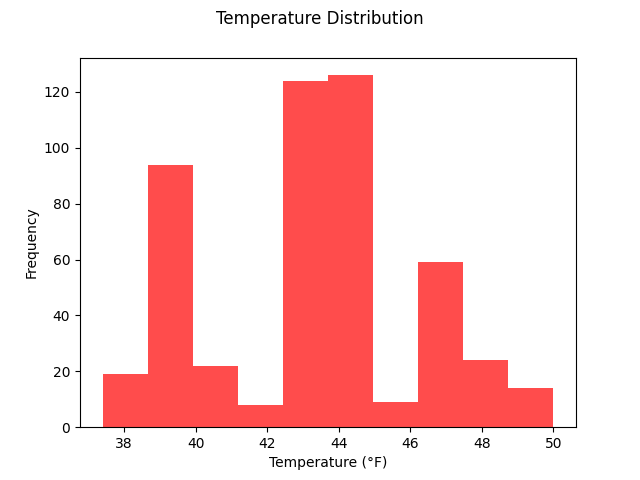
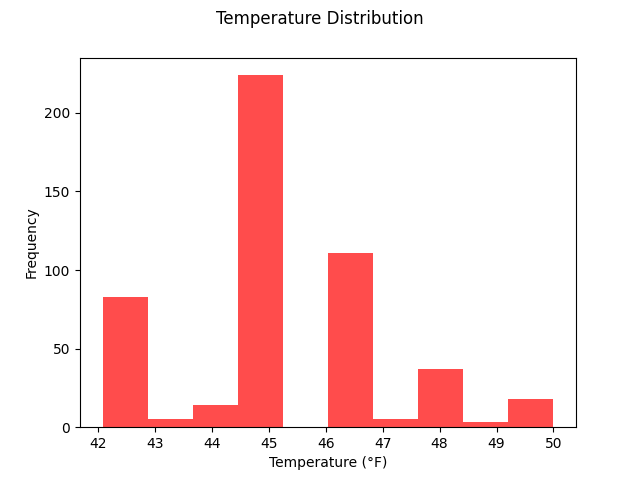
added tabs to gui, created instance variable in back end for zip code so it can be set via gui. changed some pack commnds to grid commands as it made more sense in those spots. Created instance variable for cloudy days so GUI could access the value.

diff --git a/noaa_weather_gui.py b/noaa_weather_gui.py
@@ -1,5 +1,41 @@
-# weather_gui.py
+"""
+NOAA Weather Data Analyzer GUI
+==============================
+
+Author:    Rowland Holden
+Date:      Feb 23, 2026
+Course:    CEIS 101 - Final Project (Enhanced)
+Purpose:   Provides a gui for fetching and analyzing NOAA weather data for a specified ZIP code, with 
+            visualizations and statistics.
+
+Features:
+- display statistics (avg, min, max) for temperature and humidity
+- show number of cloudy days in the last ~10 days
+- generate and display plots: Standard line plot of temperature & humidity, 
+    box plot comparison, and temperature histogram
+
+Output Files:
+- weather.png          : Temperature & Humidity over time
+- boxplot.png          : Box plot comparison
+- temperature_histogram.png : Temperature distribution
+
+Requirements:
+- Python 3.x
+- customtkinter
+- Pillow (PIL)
+- noaa_weather_backend.py (must be in the same directory)
+- threading (standard library)
+- os (standard library)
+
+Note: The noaa_weather_backend returns all available records from the Noaa stations for the various zip codes
+     in the requested time window noaa stations have data for. 
+     The backend is currently hard-coded to fetch data for ZIP code 98204, 
+     but the GUI is designed to allow dynamic input of ZIP codes in the future. 
+     The number of cloudy days is currently a placeholder and will be implemented 
+     in the next step after we have the cleaned data available in the GUI.
+"""
 import customtkinter as ctk
+import tkinter.messagebox as messagebox
 from PIL import Image, ImageTk
 import threading
 import os
@@ -10,7 +46,7 @@ ctk.set_appearance_mode("System")          # "Light", "Dark", "System"
 ctk.set_default_color_theme("blue")
 
 class WeatherAppGUI(ctk.CTk):
-    def __init__(self):
+    def __init__(self) -> None:
         super().__init__()
         self.title("NOAA Weather Analyzer – Rowland Holden")
         self.geometry("1000x850")
@@ -21,34 +57,46 @@ class WeatherAppGUI(ctk.CTk):
         self.create_widgets()
         self.protocol("WM_DELETE_WINDOW", self.on_closing)
 
-    def create_widgets(self):
+    def create_widgets(self) -> None:
         # ── Header ───────────────────────────────────────────────────────
         header = ctk.CTkLabel(self, text="Weather Data Analyzer", font=("Arial", 24, "bold"))
         header.pack(pady=(20, 10))
 
+        # ── Tabs creation ────────────────────────────────────────────────
+        self.tabs = ctk.CTkTabview(self)
+        self.tabs.pack(pady=10, padx=30, fill="both", expand=True)
+
+        self.overview_tab = self.tabs.add("Overview")
+        self.standard_plot_tab = self.tabs.add("Standard Plot")
+        self.box_plot_tab = self.tabs.add("Box Plot")
+        self.temp_histogram_tab = self.tabs.add("Temp Histogram")
+        self.raw_data_tab = self.tabs.add("Raw Data")
         # ── Input area ───────────────────────────────────────────────────
-        input_frame = ctk.CTkFrame(self)
+        input_frame = ctk.CTkFrame(self.overview_tab)
         input_frame.pack(pady=10, padx=30, fill="x")
 
-        ctk.CTkLabel(input_frame, text="ZIP Code:", font=("Arial", 14)).pack(side="left", padx=(0, 10))
-        
+        input_frame.grid_columnconfigure(3, weight=1)
+
+        zip_label = ctk.CTkLabel(input_frame, text="ZIP Code:", font=("Arial", 14))#.pack(side="left", padx=(0, 10))
+        zip_label.grid(row=0, column=0, padx=(0, 10))
+
         self.zip_entry = ctk.CTkEntry(input_frame, width=140, placeholder_text="e.g. 98204")
-        self.zip_entry.insert(0, "98204")
-        self.zip_entry.pack(side="left", padx=10)
+        # May not need this self.zip_entry.insert(0, "98204")
+        self.zip_entry.grid(row=0, column=1, padx=10)
 
         fetch_btn = ctk.CTkButton(input_frame, text="Fetch & Analyze", width=160,
                                  command=self.start_fetch_thread)
-        fetch_btn.pack(side="left", padx=20)
+        fetch_btn.grid(row=0, column=2, padx=20)
 
         # ── Status ───────────────────────────────────────────────────────
         self.status = ctk.CTkLabel(self, text="Ready", font=("Arial", 13), text_color="gray")
         self.status.pack(pady=(10, 5))
 
         # ── Results scrollable area ──────────────────────────────────────
-        self.results_container = ctk.CTkScrollableFrame(self, fg_color="transparent")
+        self.results_container = ctk.CTkScrollableFrame(self.overview_tab, fg_color="transparent")
         self.results_container.pack(pady=10, padx=30, fill="both", expand=True)
 
-    def start_fetch_thread(self):
+    def start_fetch_thread(self) -> None:
         self.status.configure(text="Fetching data from NOAA... Please wait", text_color="orange")
         self.update_idletasks()  # force redraw
 
@@ -59,12 +107,12 @@ class WeatherAppGUI(ctk.CTk):
         thread = threading.Thread(target=self.run_analysis, daemon=True)
         thread.start()
 
-    def run_analysis(self):
+    def run_analysis(self) -> None:
         try:
-            # For now we ignore the ZIP entry (backend is still hard-coded to 98204)
-            # We'll make it dynamic in the next step
+            # For now we will just set the zip code in the backend to whatever is in the entry box, but we will need to add some 
+            # validation here in the future.
+            self.backend.zip_code = self.zip_entry.get().strip()
             temp_list, humidity_list, timestamps = self.backend.init_weather_data()
-            temp_list, humidity_list = self.backend.clean_data(temp_list, humidity_list)
             self.backend.create_plots(temp_list, humidity_list, timestamps)
             # We skip console stats printing for GUI version – we'll show them in UI
 
@@ -73,16 +121,40 @@ class WeatherAppGUI(ctk.CTk):
         except Exception as e:
             self.after(0, self.show_error, str(e))
 
-    def show_results(self, temp_list, humidity_list):
+    def print_raw_data(self) -> None:
+        raw_data_text = ctk.CTkLabel(self.raw_data_tab, text="Raw NOAA Data:", font=("Arial", 14, "bold"))
+        raw_data_text.pack(pady=(20, 10))
+
+        raw_data_frame = ctk.CTkScrollableFrame(self.raw_data_tab)
+        raw_data_frame.pack(pady=10, padx=30, fill="both", expand=True)
+
+        raw_weather_data = self.backend.get_noaa_data()
+
+        # print(weather["timestamp"], "\t",
+        #   weather["temperature"]["value"], " °F\t",
+        #   weather["relativeHumidity"]["value"], "\t",
+        #   weather["textDescription"], "\t",)
+
+        for record in raw_weather_data:
+            record_label = ctk.CTkLabel(raw_data_frame, text=(str(record["timestamp"]) + "\t",
+                str(record["temperature"]["value"]) + " °F\t",
+                str(record["relativeHumidity"]["value"]) + "%\t",
+                str(record["textDescription"]) + "\t",), 
+                font=("Courier", 15), justify="left")
+            
+            record_label.pack(anchor="w", pady=2)
+
+    def show_results(self, temp_list, humidity_list) -> None:
         # ── Cloudy days & basic info ─────────────────────────────────────
         cloudy_label = ctk.CTkLabel(self.results_container,
-                                    text=f"Cloudy days in last ~10 days: {len(set())}",  # placeholder – we'll fix
+                                    text=f"Cloudy days in last ~10 days: {self.backend.cloudy_days}",  
                                     font=("Arial", 16, "bold"))
         cloudy_label.pack(pady=(20, 10))
 
         # ── Stats ─────────────────────────────────────────────────────────
         stats_frame = ctk.CTkFrame(self.results_container)
-        stats_frame.pack(fill="x", pady=15)
+        stats_frame.pack(pady=15, fill="x")
+        stats_frame.grid_columnconfigure((0,1), weight=1)
 
         temp_stats = ctk.CTkLabel(stats_frame,
                                   text="Temperature Statistics\n" +
@@ -90,7 +162,7 @@ class WeatherAppGUI(ctk.CTk):
                                        f"Min: {round(min(temp_list),1)}°F\n" +
                                        f"Max: {round(max(temp_list),1)}°F",
                                   justify="left", anchor="w")
-        temp_stats.pack(side="left", padx=40, pady=10)
+        temp_stats.grid(row=0, column=0, padx=40, pady=10, sticky="w")
 
         humid_stats = ctk.CTkLabel(stats_frame,
                                    text="Humidity Statistics\n" +
@@ -98,28 +170,39 @@ class WeatherAppGUI(ctk.CTk):
                                         f"Min: {round(min(humidity_list),1)}%\n" +
                                         f"Max: {round(max(humidity_list),1)}%",
                                    justify="left", anchor="w")
-        humid_stats.pack(side="left", padx=40, pady=10)
+        humid_stats.grid(row=0, column=1, padx=40, pady=10, sticky="w")
 
         # ── Plots ─────────────────────────────────────────────────────────
-        for fname in ["weather.png", "boxplot.png", "temperature_histogram.png"]:
-            if os.path.exists(fname):
+        for plot_name in ["weather.png", "boxplot.png", "temperature_histogram.png"]:
+            if os.path.exists(plot_name):
                 try:
-                    img = Image.open(fname)
+                    img = Image.open(plot_name)
                     img.thumbnail((700, 500))  # reasonable max size
-                    photo = ImageTk.PhotoImage(img)
-                    lbl = ctk.CTkLabel(self.results_container, image=photo, text="")
-                    lbl.image = photo  # keep reference
-                    lbl.pack(pady=15)
+                    #photo = ImageTk.PhotoImage(img)
+
+                    if plot_name == "weather.png":
+                        img_ctl = ctk.CTkImage(light_image=img, dark_image=img, size=img.size)
+                        img_label = ctk.CTkLabel(self.standard_plot_tab, image=img_ctl, text="")
+                    elif plot_name == "boxplot.png":
+                        img_ctl = ctk.CTkImage(light_image=img, dark_image=img, size=img.size)
+                        img_label = ctk.CTkLabel(self.box_plot_tab, image=img_ctl, text="")
+                    elif plot_name == "temperature_histogram.png":
+                        img_ctl = ctk.CTkImage(light_image=img, dark_image=img, size=img.size)
+                        img_label = ctk.CTkLabel(self.temp_histogram_tab, image=img_ctl, text="")
+               
+                    img_label.pack(pady=15)
                 except:
                     pass
 
+        self.print_raw_data()
+
         self.status.configure(text="Analysis complete", text_color="green")
 
-    def show_error(self, msg):
+    def show_error(self, msg) -> None:
         self.status.configure(text=f"Error: {msg}", text_color="red")
 
-    def on_closing(self):
-        if ctk.CTk.messagebox.askokcancel("Quit", "Do you want to quit?"):
+    def on_closing(self) -> None:
+        if messagebox.askokcancel("Quit", "Do you want to quit?"):
             self.destroy()
 
 if __name__ == "__main__":

diff --git a/noaa_weather_backend.py b/noaa_weather_backend.py
@@ -59,8 +59,8 @@ class RowlandNoaaWeather: # Named as such to ensure it will never conflict with 
                 is the zip code. Need this so we can print the valid records processed message. 
             
             Examples:
-                >>> raw_data, zip_code = self.get_noaa_data()
-                >>> weather_data, zip_code = self.get_noaa_data()
+                >>> raw_data = self.get_noaa_data()
+                >>> weather_data = self.get_noaa_data()
             """
         
         # API likes a start date and end date - calc those here. 
@@ -68,7 +68,6 @@ class RowlandNoaaWeather: # Named as such to ensure it will never conflict with 
         past = today - datetime.timedelta(days=10)
         start_date = past.strftime("%Y-%m-%d")
         end_date = today.strftime("%Y-%m-%d")
-        zip_code = "98204"  # Everett Washington Zip Code for API
 
         # Initialize NOAA API
         noaa_api = noaa.NOAA()
@@ -76,7 +75,7 @@ class RowlandNoaaWeather: # Named as such to ensure it will never conflict with 
         # Try catch block for the API call
         try:
         # Fetch weather data for the specified date range and location
-            weather_data = noaa_api.get_observations(zip_code, "US", start = start_date, end = end_date)
+            weather_data = noaa_api.get_observations(self.zip_code, "US", start = start_date, end = end_date)
 
             # Ensure we received data
             first_item = next(weather_data, None)
@@ -84,8 +83,8 @@ class RowlandNoaaWeather: # Named as such to ensure it will never conflict with 
                 raise ValueError("No observations returned for the specified period and location.")
             
             # Reset generator so caller can still iterate fully
-            weather_data = noaa_api.get_observations(zip_code, "US", start=start_date, end=end_date)
-            return weather_data, zip_code
+            weather_data = noaa_api.get_observations(self.zip_code, "US", start=start_date, end=end_date)
+            return weather_data
         
         except noaa.exceptions.NoaaSdkException as e:
             print(f"NOAA API error: {e}")
@@ -182,15 +181,15 @@ class RowlandNoaaWeather: # Named as such to ensure it will never conflict with 
         def tracking_dates(weather: Dict[str, Any], current_cloudy_days: int) -> int:
             nonlocal processed_dates # Get access to the list in get_cloudy_days
             cur_date = self.extract_date(weather)
-            cloudy_days = current_cloudy_days # ensure the origional data is not overwritten
+            self.cloudy_days = current_cloudy_days # ensure the origional data is not overwritten
 
             # Count cloudy days
             if "cloudy" in weather["textDescription"].lower(): 
                 if cur_date not in processed_dates:
-                    cloudy_days += 1
+                    self.cloudy_days += 1
                     processed_dates.append(cur_date)
 
-            return cloudy_days
+            return self.cloudy_days
 
         return tracking_dates
 
@@ -213,21 +212,19 @@ class RowlandNoaaWeather: # Named as such to ensure it will never conflict with 
 
         return weather
 
-    def collect_and_print_data(self, weather_data: Iterable[Dict[str, Any]], zip_code: str) -> tuple[int, list, list, defaultdict[str, list[str]]]:
+    def collect_and_print_data(self, weather_data: Iterable[Dict[str, Any]]) -> tuple[int, list, list, defaultdict[str, list[str]]]:
         """Collects the data to the two lists, temp_list and humidity_list. Gets the number of cloudy days.
             and converts the temps in the raw data to F
             
             Args:
                 weather: the raw data record we are working with
-                zip_code: Zip code that the collected data represents
             
             Returns:
                 tuple[int, list, list, defaultdict[str, list[str]]]: the number of cloudy days, temp_list, humidity_list, and timestamps_for_plots
 
             Examples:
-                >>> cloudy_days, temp_list, humidity_list, timestamps_for_plots = self.collect_and_print_data(weather_data, zip_code)
+                >>> cloudy_days, temp_list, humidity_list, timestamps_for_plots = self.collect_and_print_data(weather_data)
             """
-        cloudy_days = 0
         cloudy_days_func = self.get_cloudy_days()
         temp_list = []
         humidity_list = []
@@ -250,15 +247,15 @@ class RowlandNoaaWeather: # Named as such to ensure it will never conflict with 
                 timestamps_for_plots["humidity"].append(weather["timestamp"]) # We only want to add timestamps that have valid humidity data for plotting
                 humidity_list.append(weather["relativeHumidity"]["value"]) # We need to append the humidity value here as well because we are filtering out None values in the clean_data function, so we need to make sure the lists are the same length as the timestamps for plotting. We could do this in the clean_data function but it is easier to do it here.
                 
-            cloudy_days = cloudy_days_func(weather, cloudy_days) # This is a closure function called get_cloudy_days
+            self.cloudy_days = cloudy_days_func(weather, self.cloudy_days) # This is a closure function called get_cloudy_days
             
             self.print_data(weather)
 
         print() # Blank line between raw data and processed number info
-        print(f"processed {len(temp_list)} valid temperatures found in Noaa observations for zip code {zip_code}")
-        print(f"processed {len(humidity_list)} valid humidity values found in Noaa observations for zip code {zip_code}")
+        print(f"processed {len(temp_list)} valid temperatures found in Noaa observations for zip code {self.zip_code}")
+        print(f"processed {len(humidity_list)} valid humidity values found in Noaa observations for zip code {self.zip_code}")
 
-        return cloudy_days, temp_list, humidity_list, timestamps_for_plots
+        return self.cloudy_days, temp_list, humidity_list, timestamps_for_plots
 
     def init_weather_data(self) -> tuple[list, list, defaultdict[str, list[str]]]:
         """Initialize and collect the raw data, build the lists temp_list and humidiy_list
@@ -273,13 +270,13 @@ class RowlandNoaaWeather: # Named as such to ensure it will never conflict with 
             Examples:
                 >>> init_weather_data()
             """
-        weather_data, zip_code = self.get_noaa_data()
+        weather_data = self.get_noaa_data()
 
-        cloudy_days, temp_list, humidity_list, timestamps_for_plots = self.collect_and_print_data(weather_data, zip_code)
+        self.cloudy_days, temp_list, humidity_list, timestamps_for_plots = self.collect_and_print_data(weather_data)
 
         # Lets put a blank line between raw data and readable data
         print()
-        print(f"Number of cloudy days in the last 10 days: {cloudy_days}")
+        print(f"Number of cloudy days in the last 10 days: {self.cloudy_days}")
        
 
         return temp_list, humidity_list,timestamps_for_plots
@@ -552,7 +549,7 @@ class RowlandNoaaWeather: # Named as such to ensure it will never conflict with 
         self.create_plots(temp_list, humidity_list, timestamps_for_plots)
         self.calculate_and_print_statistics(temp_list, humidity_list)
     
-    def __init__(self):
+    def __init__(self, zip_entry: str = "98204") -> None:
         """called automatically when class is instanced. 
             
             Args:
@@ -562,10 +559,10 @@ class RowlandNoaaWeather: # Named as such to ensure it will never conflict with 
                 None
 
             Examples:
-                >>> weather_app = HoldenRowlandFinalCeis101NoaaWeather()
+                >>> weather_app = RowlandNoaaWeather()
             """
-        pass
-
+        self.cloudy_days = 0
+        self.zip_code = zip_entry
 
 # ********************* SCRIPT
 
